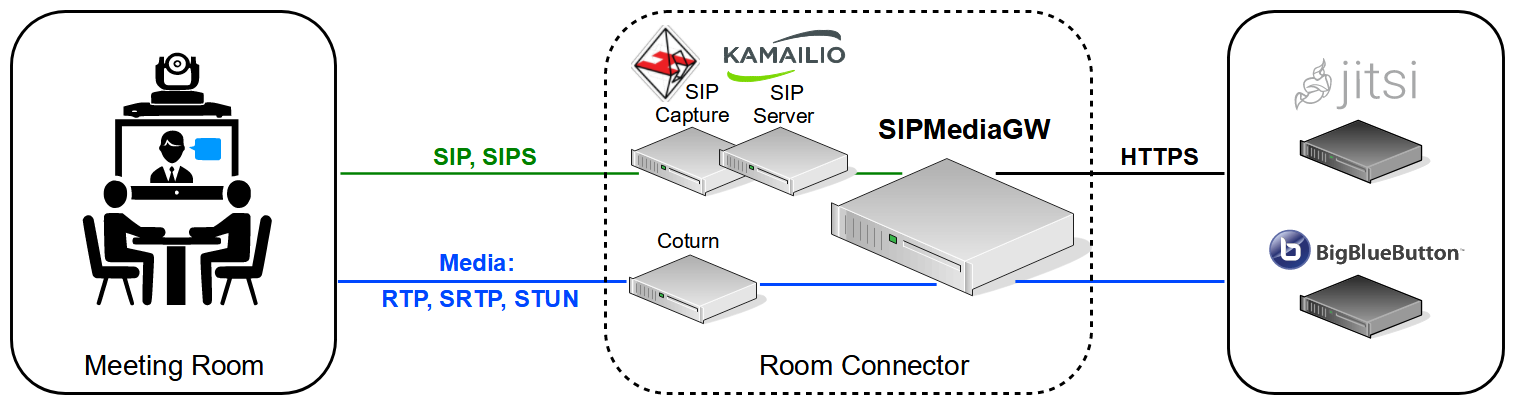
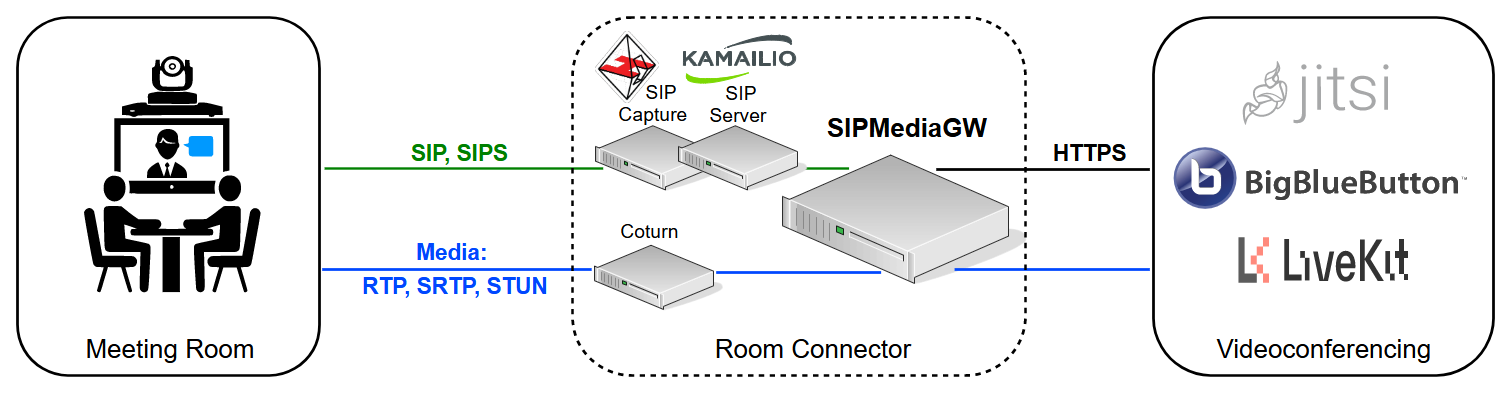
[Added] Livekit support

diff --git a/README.md b/README.md
@@ -1,5 +1,5 @@
 # SIPMediaGW
-SIPMediaGW is a Docker-based set of open-source components that allow traditional video conferencing rooms to join Jitsi or Big Blue Button web conferences using SIP and RTP protocols.
+SIPMediaGW is a Docker-based set of open-source components that allow traditional video conferencing rooms to join Jitsi, Big Blue Button or LiveKit web conferences using SIP and RTP protocols.
 
 <img src="docs/architecture.png">
 
